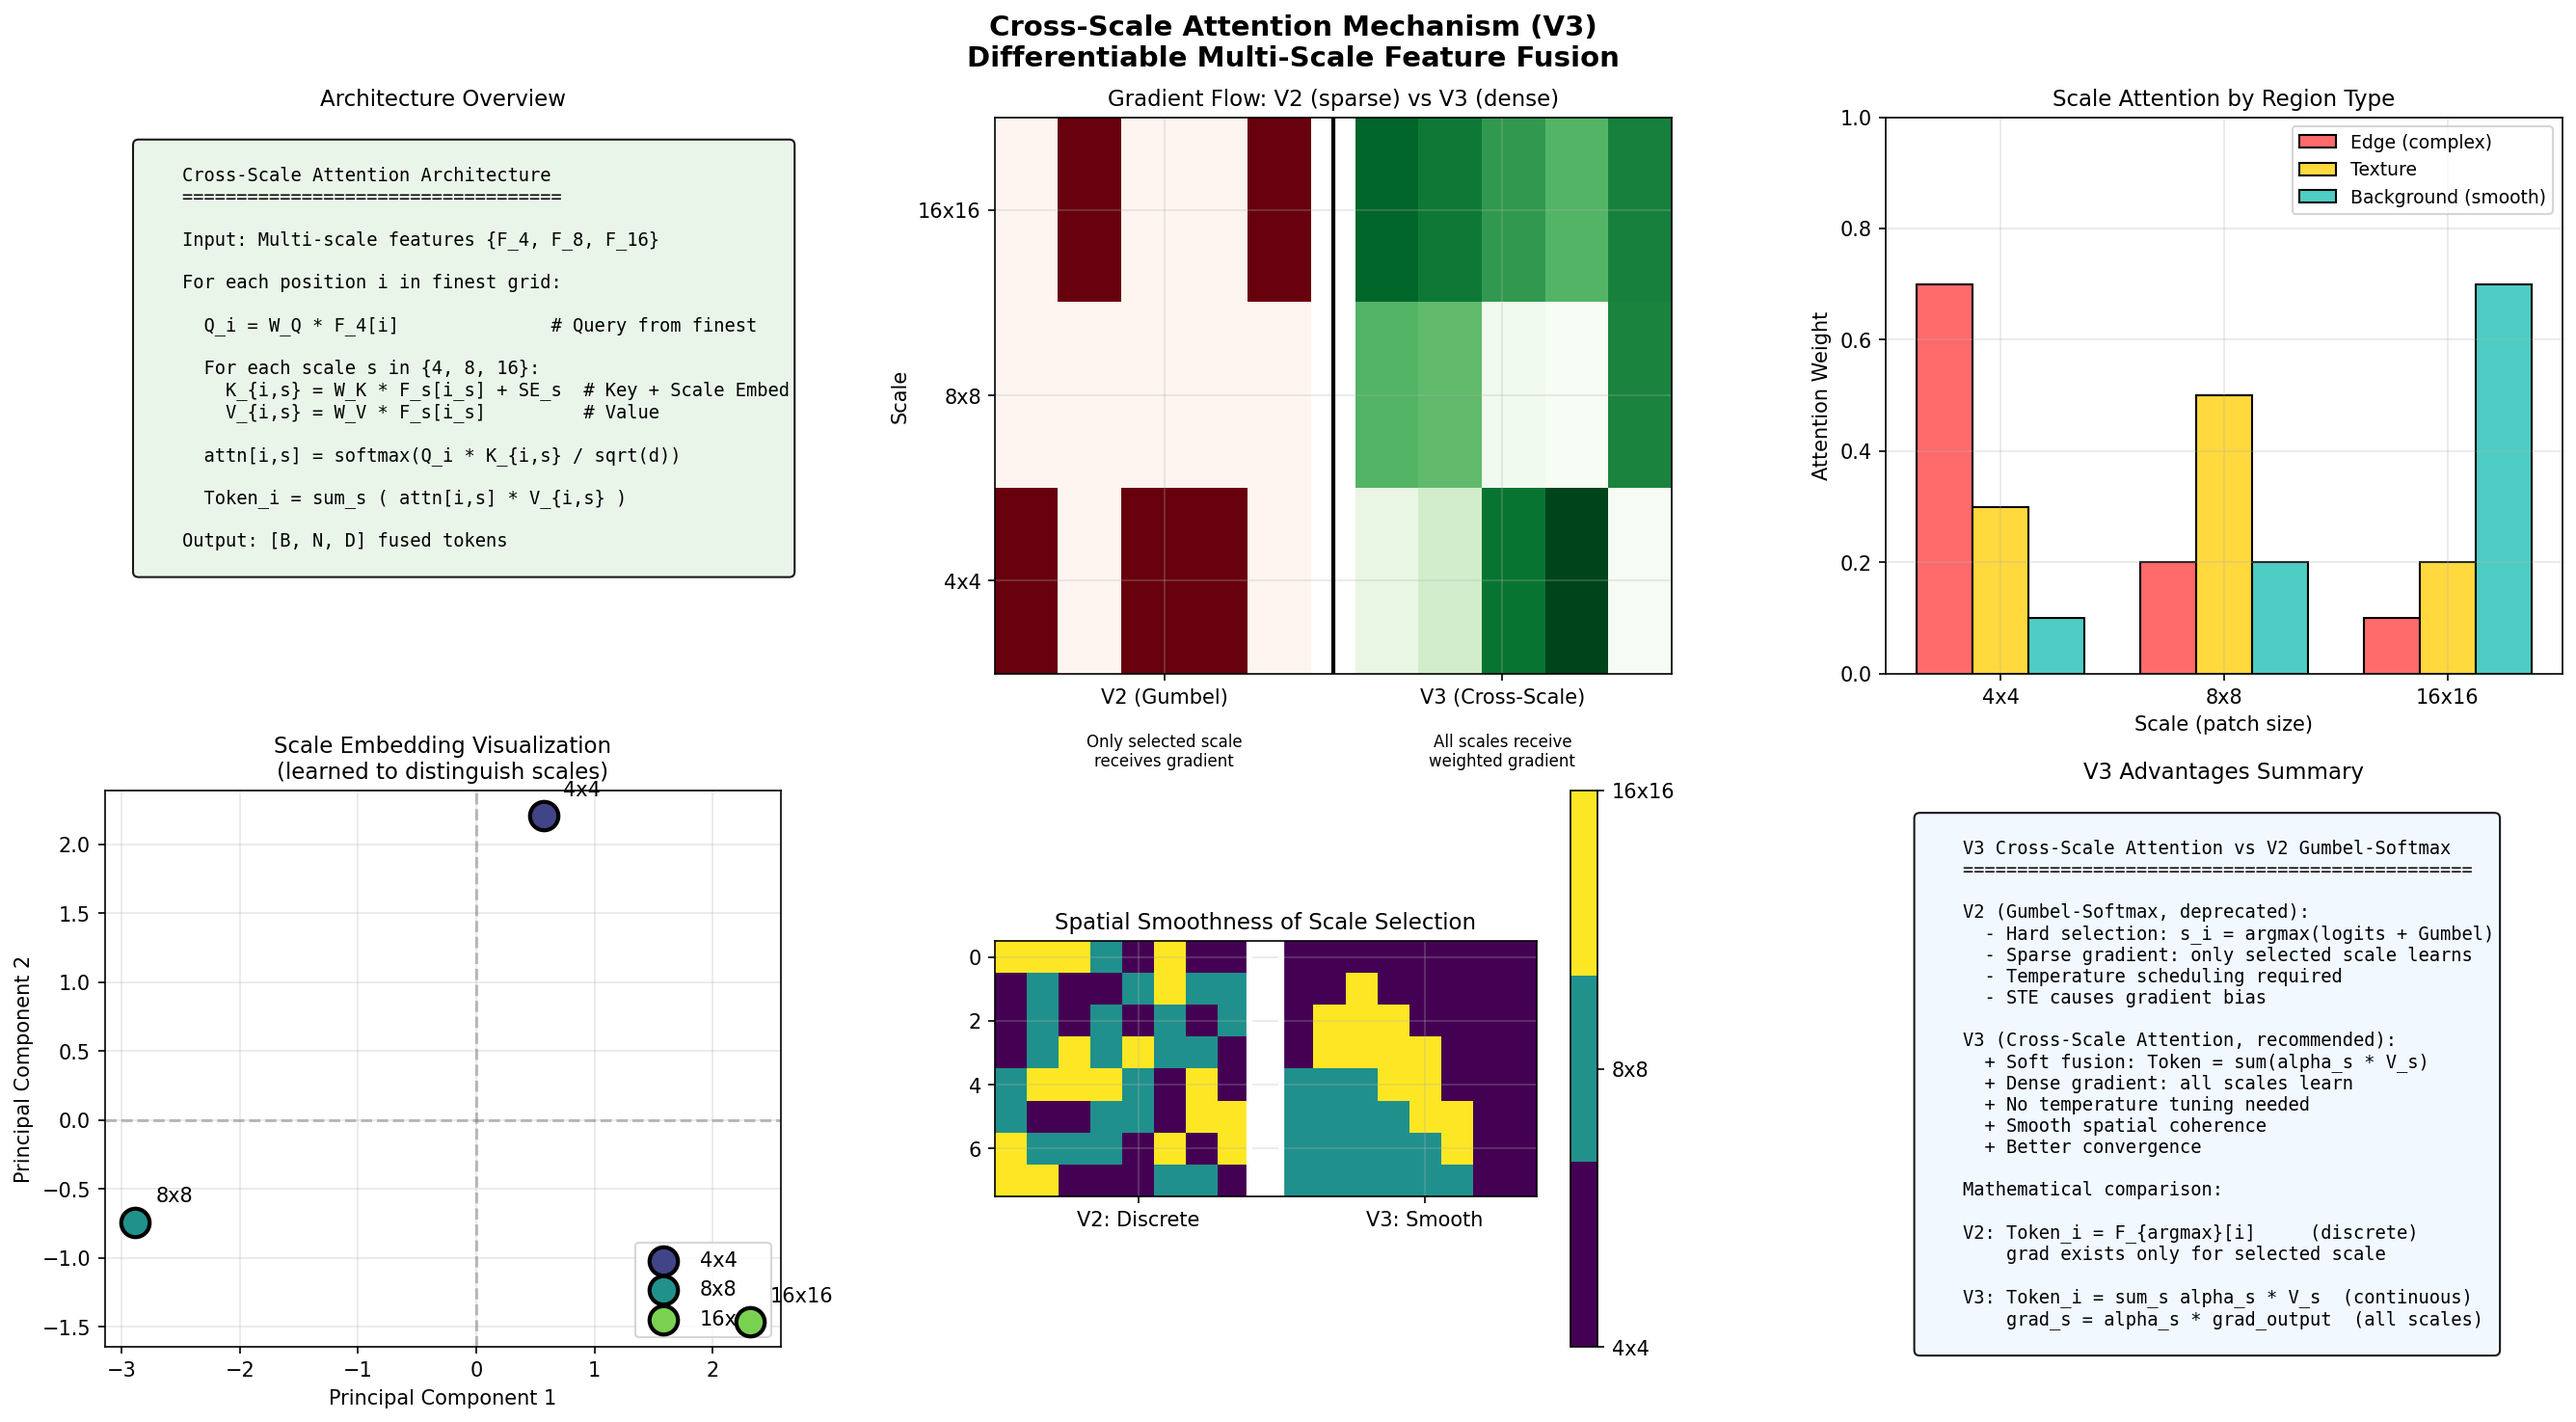
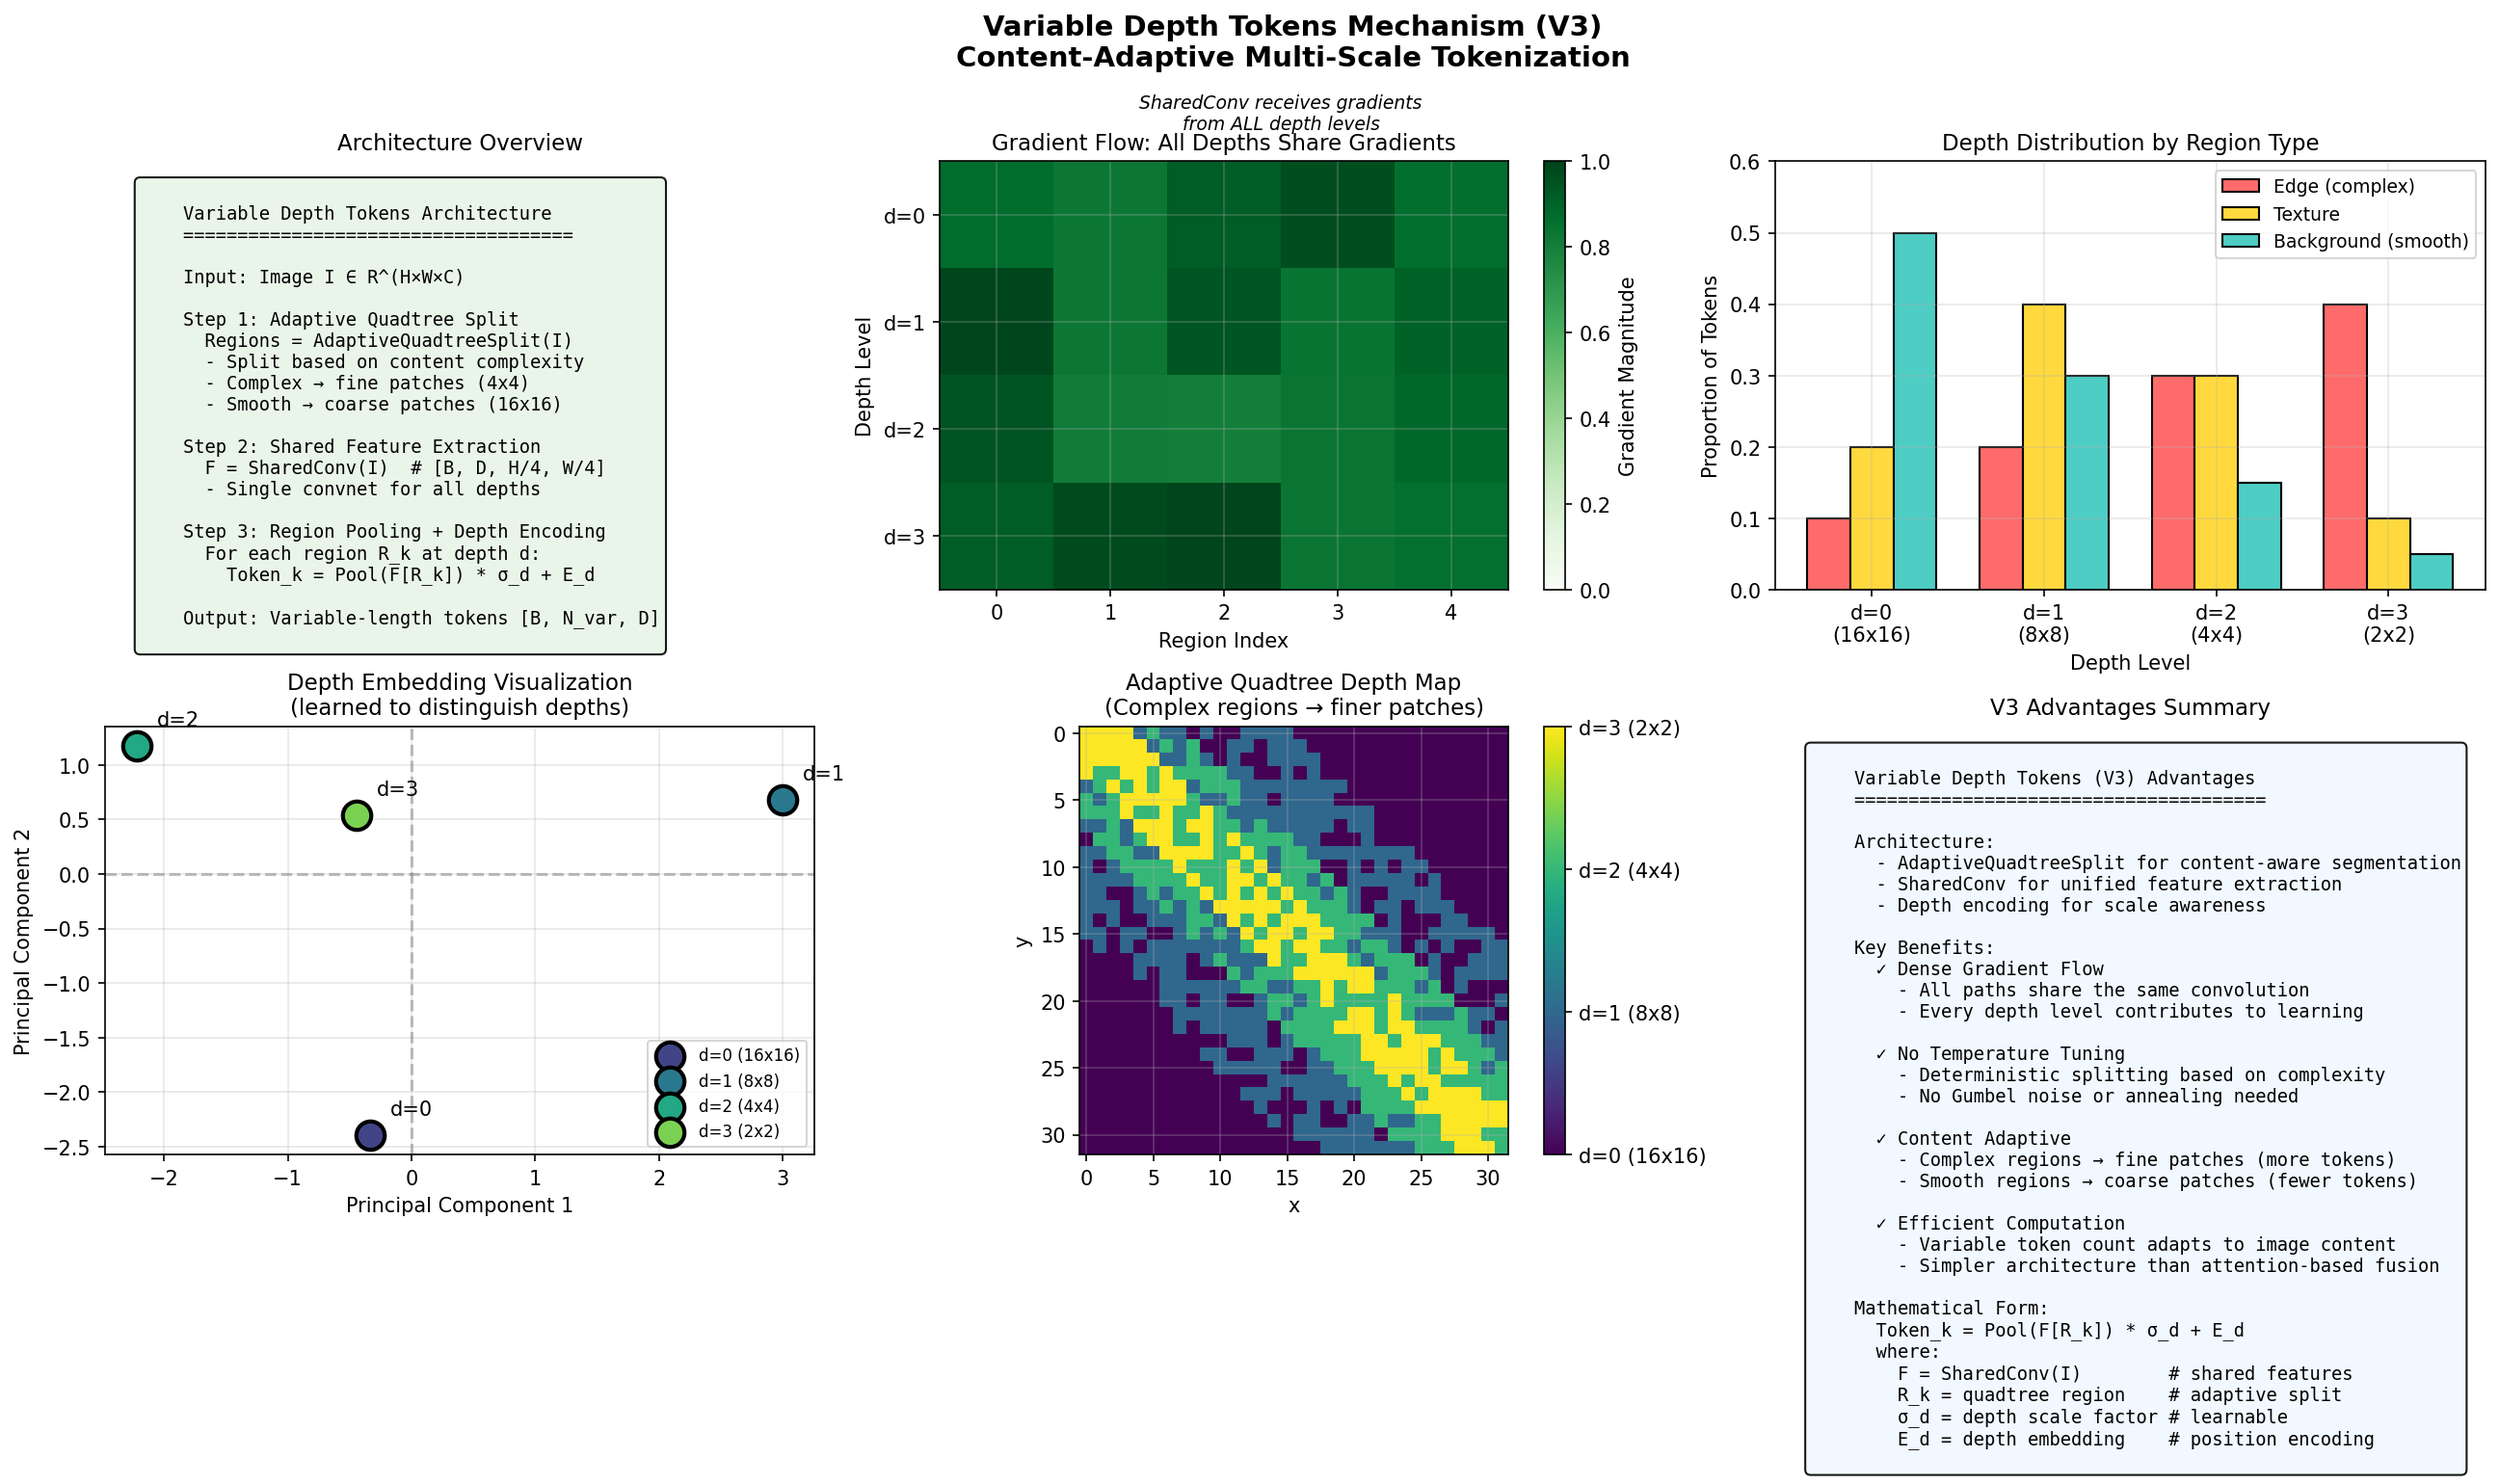
feat: 添加 compute_scale_distribution 方法以计算深度分布统计信息，并更新文档以反映 Variable Depth 架构

diff --git a/src/vit_pytorch/streaming_tokenizer.py b/src/vit_pytorch/streaming_tokenizer.py
@@ -958,6 +958,87 @@ class StreamingFractalTokenizerV3(BaseTokenizer):
         
         return entropy
     
+    @torch.no_grad()
+    def compute_scale_distribution(
+        self, 
+        images: torch.Tensor,
+    ) -> Dict[str, Any]:
+        """计算深度分布统计信息.
+        
+        Variable Depth 架构中，"scale" 对应四叉树深度：
+        - depth=0: 最粗尺度 (base_patch_size * 2^max_depth)
+        - depth=max_depth: 最细尺度 (base_patch_size)
+        
+        Args:
+            images: [B, C, H, W] 输入图像
+            
+        Returns:
+            Dict 包含:
+            - scale_ratios: Dict[int, float] 每个深度的 token 比例 (key 为 patch_size)
+            - entropy: float 深度分布熵值
+            - max_entropy: float 最大可能熵值
+            - dominant_scale: int 主导 patch 尺寸
+            - depth_distribution: Dict[int, int] 原始深度计数
+        """
+        # 执行分割以获取统计信息
+        _ = self.tokenize(images)
+        
+        if self._last_split_stats is None:
+            return {
+                'scale_ratios': {},
+                'entropy': 0.0,
+                'max_entropy': 0.0,
+                'dominant_scale': self.base_patch_size,
+                'depth_distribution': {},
+            }
+        
+        import math
+        
+        # 合并所有图像的深度分布
+        total_dist: Dict[int, int] = {}
+        for dist in self._last_split_stats['depth_distributions']:
+            for d, count in dist.items():
+                total_dist[d] = total_dist.get(d, 0) + count
+        
+        total_tokens = sum(total_dist.values())
+        if total_tokens == 0:
+            return {
+                'scale_ratios': {},
+                'entropy': 0.0,
+                'max_entropy': 0.0,
+                'dominant_scale': self.base_patch_size,
+                'depth_distribution': {},
+            }
+        
+        # 将深度转换为 patch_size: depth=d → ps=base_patch_size * 2^(max_depth - d)
+        scale_ratios: Dict[int, float] = {}
+        for depth, count in total_dist.items():
+            ps = self.base_patch_size * (2 ** (self.max_depth - depth))
+            scale_ratios[ps] = count / total_tokens
+        
+        # 计算熵
+        entropy = 0.0
+        for count in total_dist.values():
+            p = count / total_tokens
+            if p > 0:
+                entropy -= p * math.log(p)
+        
+        # 最大熵 (均匀分布)
+        num_depths = self.max_depth + 1
+        max_entropy = math.log(num_depths) if num_depths > 1 else 0.0
+        
+        # 主导尺度 (token 数最多的深度对应的 patch_size)
+        dominant_depth = max(total_dist.keys(), key=lambda d: total_dist[d])
+        dominant_scale = self.base_patch_size * (2 ** (self.max_depth - dominant_depth))
+        
+        return {
+            'scale_ratios': scale_ratios,
+            'entropy': entropy,
+            'max_entropy': max_entropy,
+            'dominant_scale': dominant_scale,
+            'depth_distribution': total_dist,
+        }
+    
     def get_training_stats(self) -> Dict[str, Any]:
         """获取训练状态统计信息."""
         stats = {

diff --git a/src/vit_pytorch/vit.py b/src/vit_pytorch/vit.py
@@ -26,11 +26,8 @@ Tokenizer 选项
 +---------------+-------------------------------+------------------+
 | tokenizer_type| 实现                           | 特点              |
 +===============+===============================+==================+
-| streaming_v3  | StreamingFractalTokenizerV3   | Cross-Scale      |
-|               |                               | Attention (推荐) |
-+---------------+-------------------------------+------------------+
-| streaming_v2  | StreamingFractalTokenizerV2   | Gumbel-Softmax   |
-|               |                               | (已弃用)          |
+| streaming_v3  | StreamingFractalTokenizerV3   | Variable Depth   |
+|               |                               | Tokens (推荐)    |
 +---------------+-------------------------------+------------------+
 | streaming     | StreamingFractalTokenizer     | 固定多尺度        |
 +---------------+-------------------------------+------------------+
